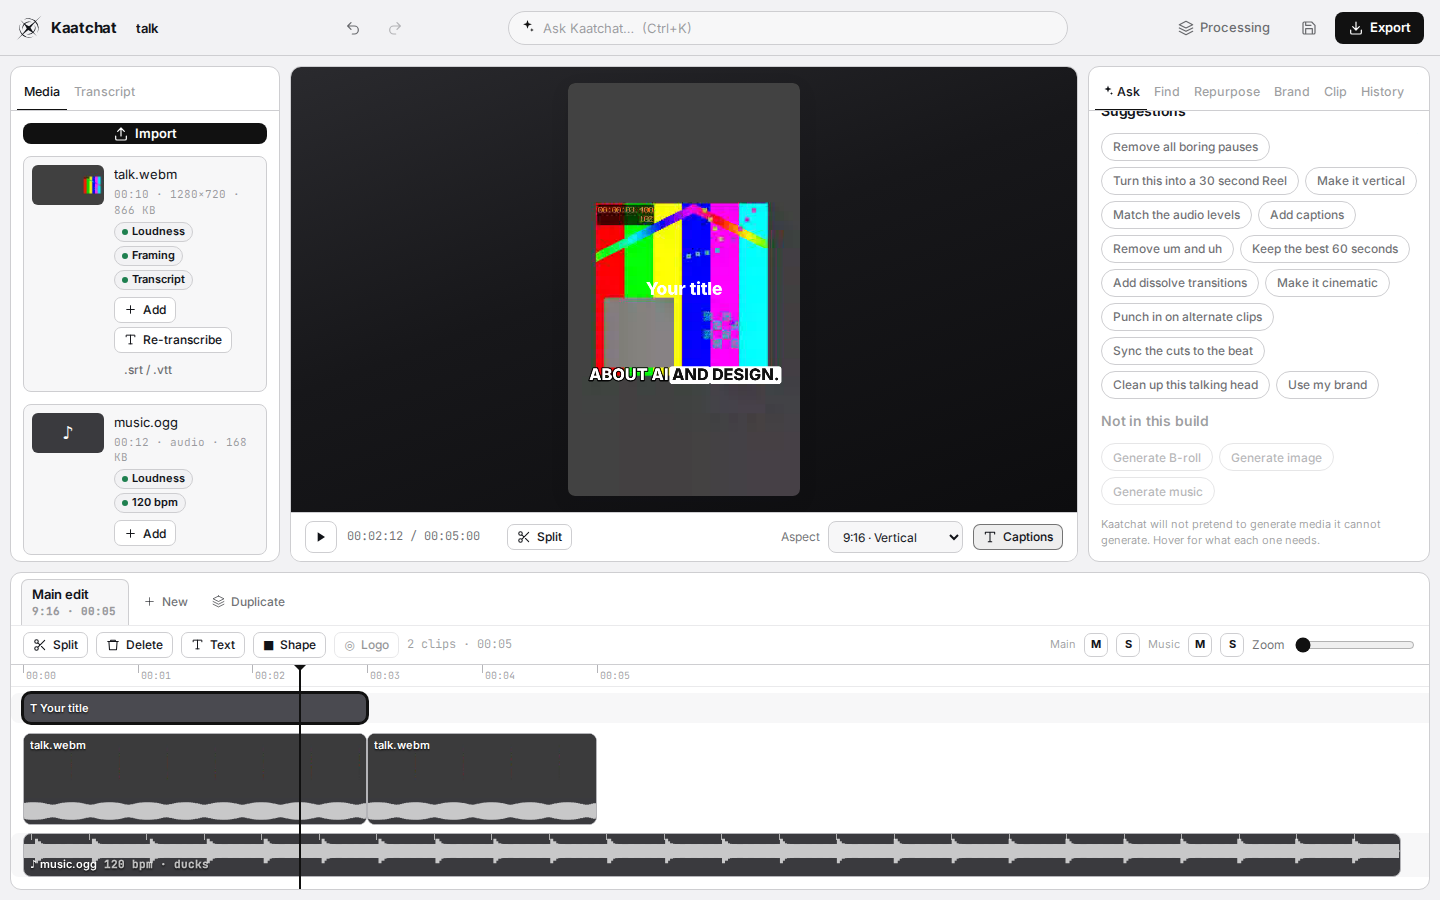
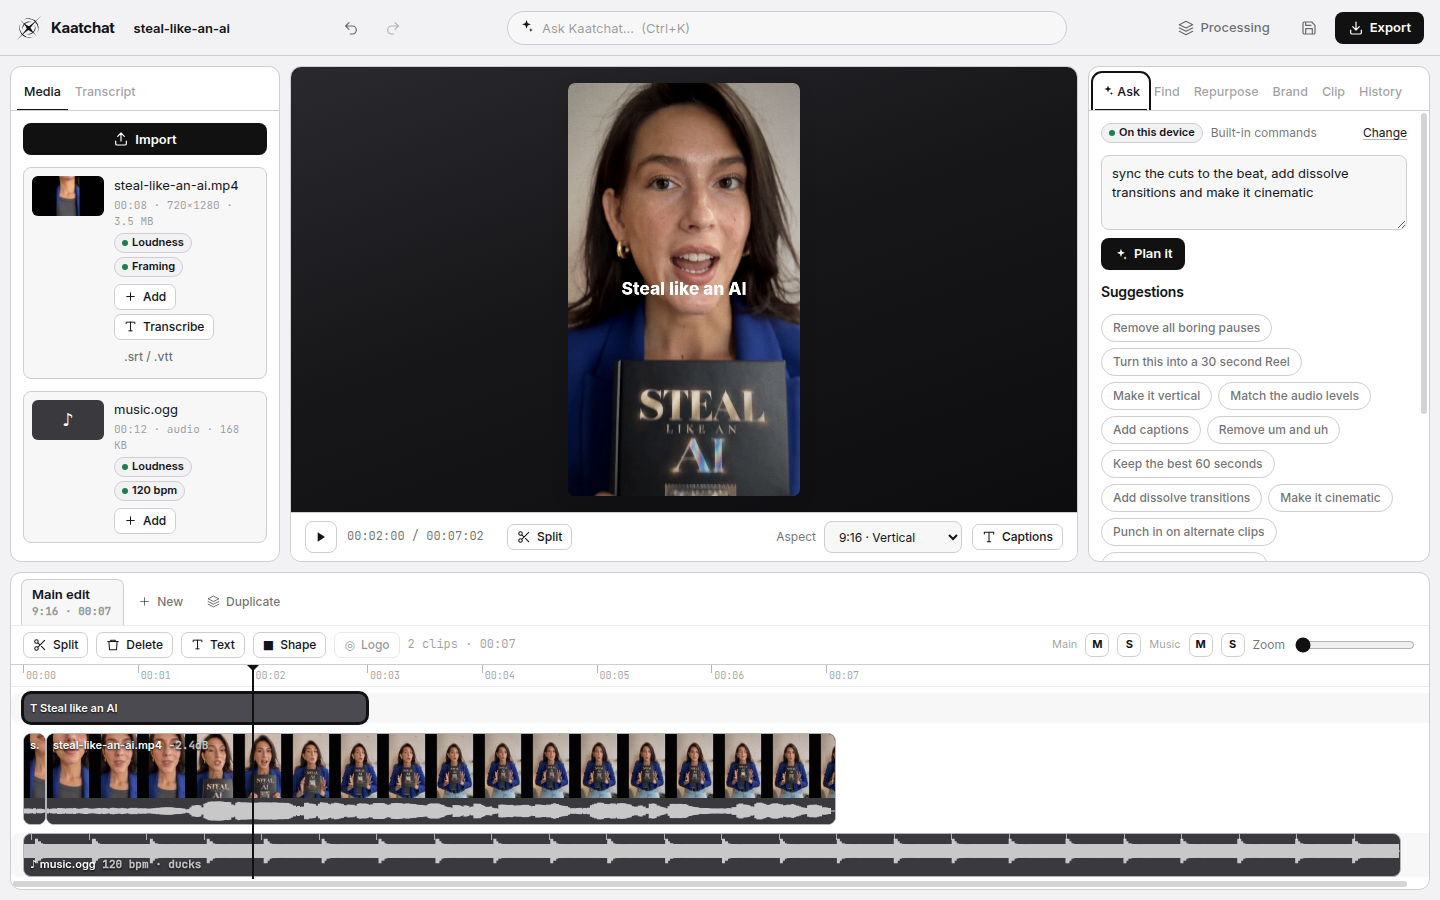
Site: replace test-pattern screenshots with real footage
The website's hero, plan and repurpose screenshots showed the synthetic
colour-bar test clip. Re-captured all three in the desktop app editing a real
talking-head clip (9:16, title layer, music with beat grid, AI plan preview,
repurpose panel). Hero alt text updated to match.

Claude-Session: https://claude.ai/code/session_01B8DFVZwWpNCx53qjcyu8nm

diff --git a/kaatchat/site/index.html b/kaatchat/site/index.html
@@ -54,7 +54,7 @@
       </section>
 
       <section class="shot" aria-label="The Kaatchat editor">
-        <img src="assets/editor.png" width="1440" height="900" alt="The Kaatchat editor: a vertical Reel with captions, a title layer, two clips and a music track with its beat grid." loading="eager" />
+        <img src="assets/editor.png" width="1440" height="900" alt="The Kaatchat editor: a vertical 9:16 edit of a talking-head clip with a title layer, two clips and a music track with its beat grid." loading="eager" />
       </section>
 
       <section id="features" class="features">
